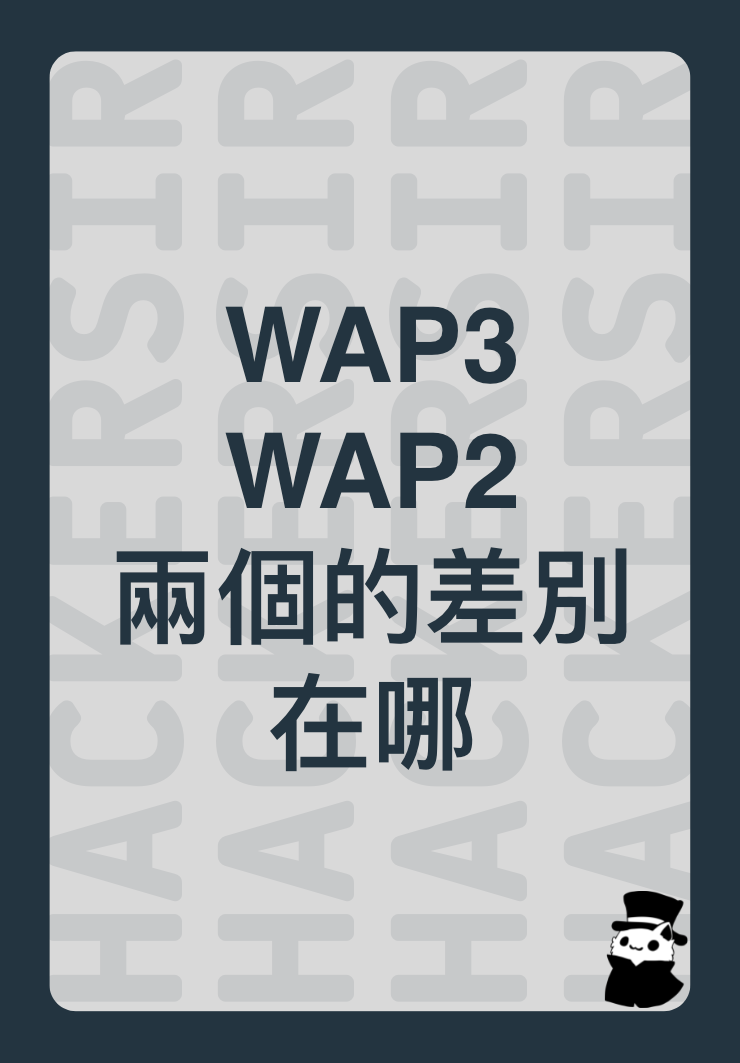
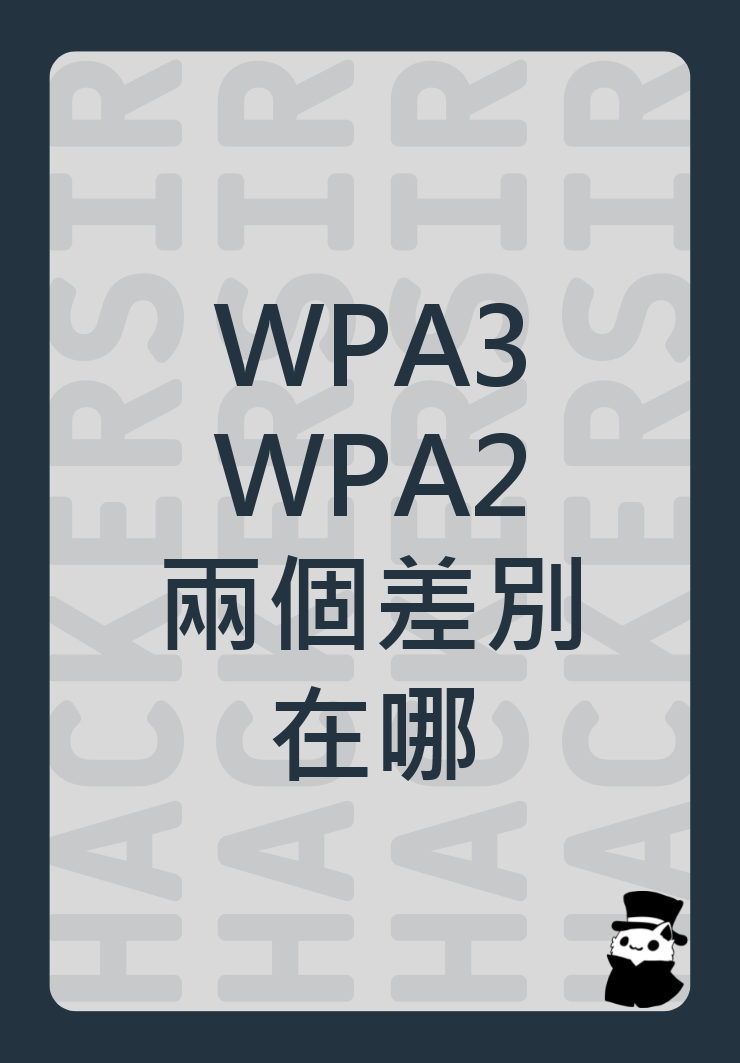
ADD explaination and CHANGE question pic

Changed region(s): [[0.1554, 0.4036, 0.8703, 0.7451], [0.2797, 0.2794, 0.7149, 0.3725]]

diff --git a/ANSWER_EXPLAINATION.md b/ANSWER_EXPLAINATION.md
@@ -1,0 +1,66 @@
+# 翻牌遊戲答案解說 - 資安周 lab
+
+> Junner
+> 12/9/2024
+
+- 如果整台電腦被幹走要如何防範資料洩漏
+    - 使用磁碟加密  
+      *解釋：磁碟加密確保即使硬碟被移除並讀取，沒有解密密鑰的人也無法存取裡面的資料。*
+
+- 無線網路不設強密碼會發生甚麼事？
+    - 被暴力破解並進行中間人攻擊  
+      *解釋：弱密碼容易被攻擊者透過暴力破解工具解讀，取得網路存取權後可進行流量攔截或偽造攻擊。*
+
+- 如何盡量避免設備遭受攻擊？
+    - 定期更新、管理儲存權限、使用強密碼  
+      *解釋：定期更新修補漏洞，管理儲存權限限制重要資源的存取，強密碼能提升破解難度。*
+
+- 使用 Python 的優點？
+    - 基礎語法簡單、工法完整、應用廣泛  
+      *解釋：Python 語法簡潔，降低學習門檻；標準庫與第三方工具齊全，可應用於多個領域如數據科學、網頁開發等。*
+
+- 惡意程式的傳播方式
+    - 惡意網站、隨身碟、電子郵件  
+      *解釋：惡意網站可能植入病毒，隨身碟容易攜帶感染源，電子郵件中的附件或連結是常見的釣魚方式。*
+
+- 常見網站錯誤代碼
+    - 200 - OK  
+      *解釋：表示請求成功，伺服器已回應請求內容。*
+    - 404 - Not Found  
+      *解釋：伺服器無法找到請求的資源，可能是網址錯誤或資源已刪除。*
+
+- 網安的檢測種類
+    - 資安稽核、弱掃、滲透測試  
+      *解釋：資安稽核檢查整體安全策略，弱掃自動化檢測漏洞，滲透測試模擬真實攻擊以評估防禦能力。*
+
+- 何謂 2FA
+    - 透過兩種不同的驗證方式提高安全性  
+      *解釋：2FA 通常結合密碼與實體 token 或生物辨識，增加入侵難度。*
+
+- OWASP TOP10 是什麼？
+    - 十大網站安全弱點  
+      *解釋：OWASP TOP10 是對網站常見弱點如 SQL 注入、XSS 等的分析與建議指引。*
+
+- wpa2、wpa3 差別在哪裡？
+    - 消除了 KRACK  
+      *解釋：WPA3 引入更強的加密協議，解決 WPA2 易受 KRACK 攻擊的問題，提供更安全的無線網路連線。*
+
+- wireshark 有何用途
+    - 可即時從網路介面擷取封包資料  
+      *解釋：Wireshark 是網路分析工具，可用於診斷網路問題或分析網路威脅。*
+
+- 社交工程攻擊是什麼？
+    - 攻擊者透過欺騙、誘導或操控人們行為來取得資訊或存取權限  
+      *解釋：這種攻擊利用人性弱點如信任、恐慌，誘使受害者洩露敏感資訊。*
+
+- 0-day 是什麼？
+    - 廠商或開發者還未察覺或修復的漏洞，而攻擊者可以透過這些漏洞來進行攻擊  
+      *解釋：0-day 漏洞因尚未修補，常被用於高效且難以防範的攻擊中。*
+
+- 注入式攻擊建立在何種基礎上？
+    - 應用程式對使用者輸入處理不當  
+      *解釋：未妥善驗證或清理輸入，攻擊者可植入惡意指令如 SQL 查詢，控制應用程式行為。*
+
+- 如何有效保護密碼
+    - 定期更換、注意釣魚 (網站或插件或軟體)、避免惡意軟體  
+      *解釋：定期更換減少密碼洩露風險，提防釣魚攻擊，使用防毒軟體避免密碼記錄器等威脅。*
